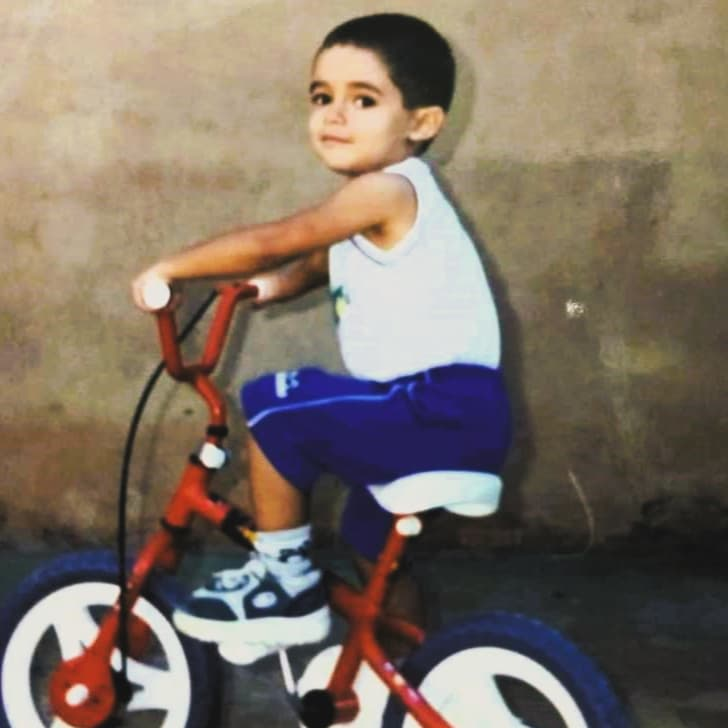
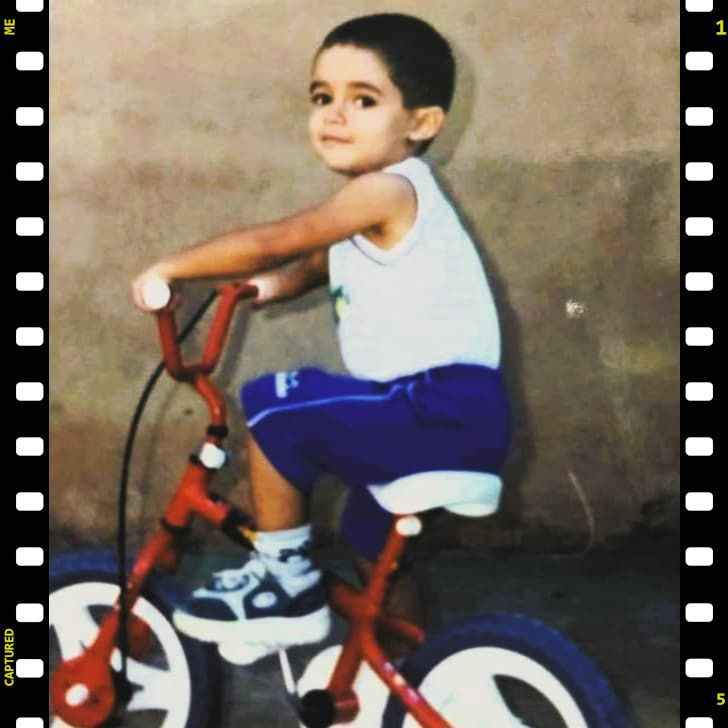
Atualização da imagem de perfil e a margem de baixo

Changed region(s): [[0.0, 0.0, 0.0907, 1.0], [0.9368, 0.0, 1.0, 1.0]]

diff --git a/style.css b/style.css
@@ -11,7 +11,7 @@
   --surface-color: rgba(255, 255, 255, 0.05);
   --surface-color-hover: rgba(0, 0, 0, 0.02);
   --highlight-color: rgba(255, 255, 255, 0.2);
-  
+
   --switch-bg-url: url(./assets/moon-stars.svg);
 }
 
@@ -56,6 +56,7 @@ body * {
 } */
 #profile img {
   width: 112px;
+  margin-bottom: 14px;
 }
 
 #profile p {
@@ -122,7 +123,7 @@ ul li a {
   align-items: center;
 
   padding: 16px 24px;
-  /*Efeito de transparencia no fundo do elemento*/ 
+  /*Efeito de transparencia no fundo do elemento*/
   background: var(--surface-color);
 
   border: 1px solid var(--stroke-color);
@@ -175,14 +176,16 @@ footer {
 @keyframes slide-in {
   from {
     left: 0;
-  } to {
+  }
+  to {
     left: 50%;
   }
 }
 @keyframes slide-out {
   from {
     left: 50%;
-  } to {
+  }
+  to {
     left: 0;
   }
 }
